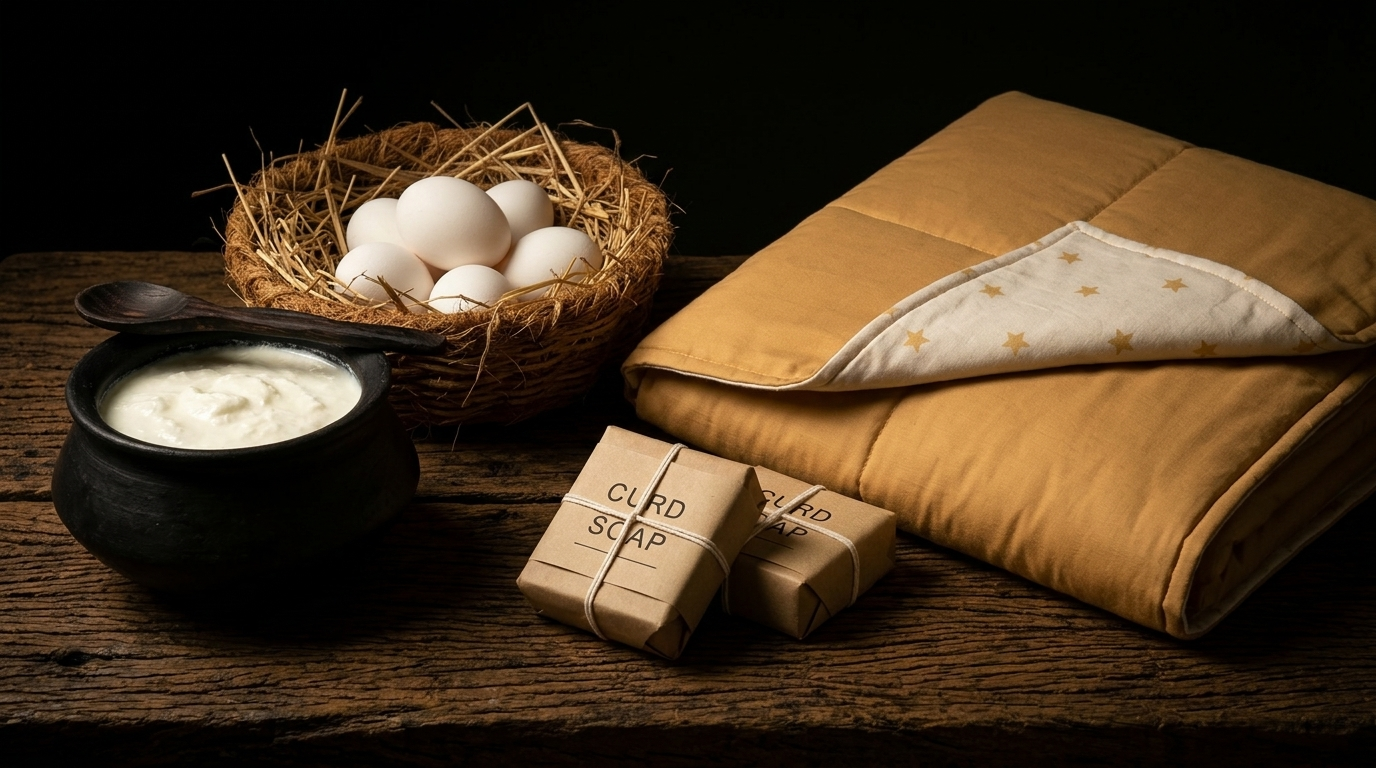
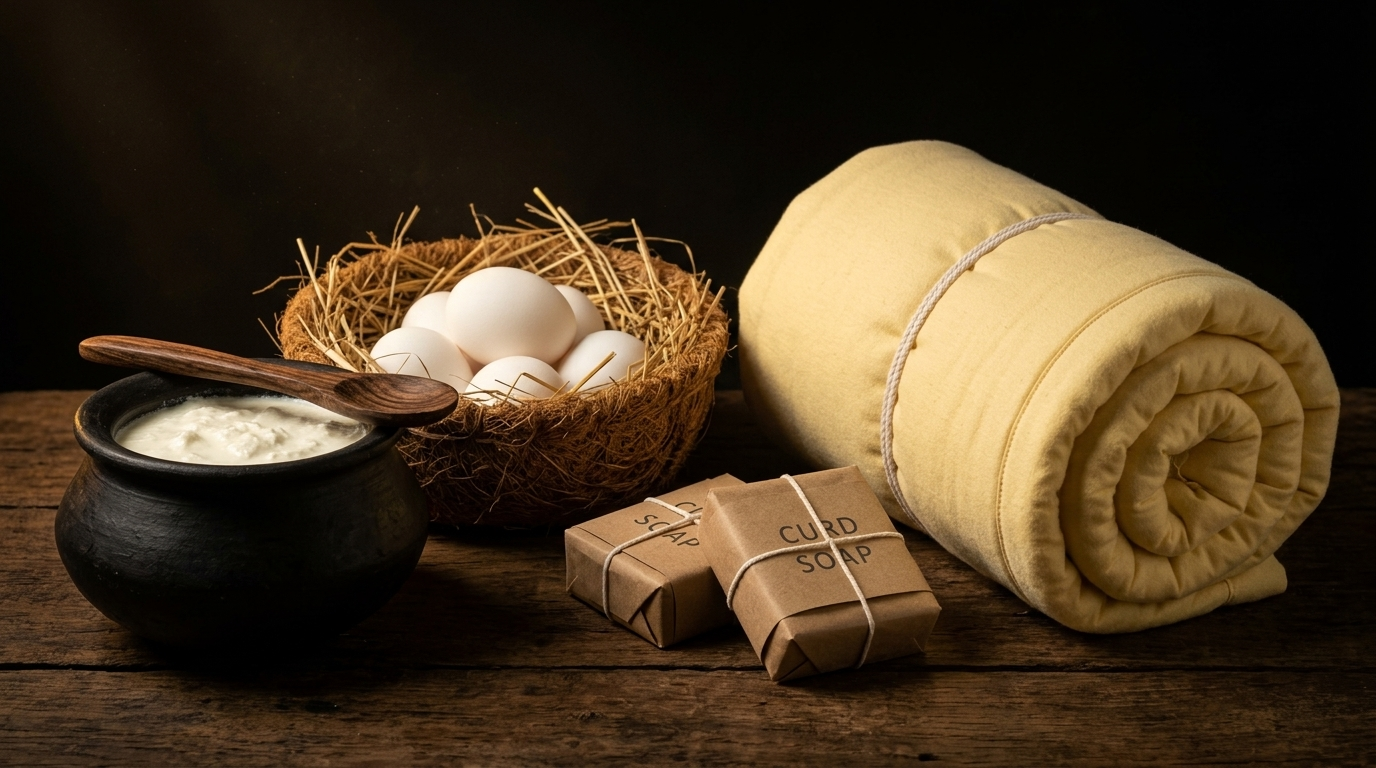
Update quilts to rolled 100% solid pastel quilt rolls while keeping printed throw blanket as-is

diff --git a/assets/js/data.js b/assets/js/data.js
@@ -51,7 +51,7 @@ const PRODUCTS = [
     badgeType: "featured",
     rating: 5.0,
     reviewsCount: 47,
-    image: "assets/images/hero-basket.jpg?v=2",
+    image: "assets/images/hero-basket.jpg?v=4",
     description: "Our signature artisanal gift hamper: fresh pasture-roaming duck eggs nestled in golden straw, two cold-process curd soaps wrapped in plain unbranded organic paper stating only the flavor, tied with textured off-white cotton thread with natural seed flecks, alongside sun-cured sacred tulsi and moringa leaves in organic white pouches, and an earthen pot of fresh setting curd.",
     ingredients: "6 Pasture Duck Eggs in Straw + 2 Farmstead Curd Soaps + Sun-Cured Sacred Tulsi & Moringa White Packets + Earthen Setting Curd Pot.",
     benefits: ["100% natural, biodegradable materials", "Soothes the senses with natural earthy textures", "Direct farm-to-table presentation with zero plastic"],
@@ -69,7 +69,7 @@ const PRODUCTS = [
     badgeType: "featured",
     rating: 5.0,
     reviewsCount: 22,
-    image: "assets/images/quilt-hamper.jpg?v=2",
+    image: "assets/images/quilt-hamper.jpg?v=4",
     description: "The complete artisanal home upgrade: an individual artisanal quilt roll (55\" × 90\") filled with natural Ilavam Panju (silk cotton harvested from Tamizhnad) and handcrafted from GOTS-certified and OEKO-TEX certified organically dyed cotton fabric (the fabric itself carries the GOTS & OEKO-TEX certifications), paired with two cold-process curd soaps wrapped in plain unbranded eco-friendly organic paper (zero plastic) and sun-cured herbal leaves in a rustic wooden gift crate.",
     ingredients: "Individual (55\" × 90\") Tamizhnad Ilavam Panju Quilt Roll (made from GOTS & OEKO-TEX certified fabric) + 2 Cold-Process Curd Soaps + Sun-Cured Herbal Leaves in White Pouches + Rustic Wooden Crate.",
     benefits: ["Natural Ilavam Panju (silk cotton harvested from Tamizhnad) filling encased in GOTS & OEKO-TEX certified cotton fabric", "100% eco-friendly labels & packaging — strictly NO PLASTIC", "Handcrafted durability built to last generations"],
@@ -219,7 +219,7 @@ const PRODUCTS = [
     badgeType: "featured",
     rating: 5.0,
     reviewsCount: 16,
-    image: "assets/images/quilt-roll.jpg?v=3",
+    image: "assets/images/quilt-roll.jpg?v=4",
     description: "Handcrafted solid pastel kids quilt filled with 100% natural Ilavam Panju (pure silk cotton harvested from Tamizhnad) and encased in ultra-soft, brushed organically dyed solid pastel cotton fabric (available in Pastel Butter Yellow, Pastel Peach, Pastel Mint Green, Pastel Lavender, Pastel Misty Blue-Grey, and Pastel Blush Pink — our quilts are 100% solid pastel with no prints). While the handcrafted quilt itself is not separately certified, the organic cotton fabric it is made from is GOTS and OEKO-TEX Standard 100 certified. Finished with eco-friendly plastic-free labels and a handcrafted tote carry bag.",
     ingredients: "Natural Ilavam Panju (Silk Cotton harvested from Tamizhnad) Filling + Handcrafted from 100% Solid Pastel GOTS & OEKO-TEX Certified Organic Cotton Fabric, organically dyed.",
     benefits: ["100% solid pastel brushed cotton with pure Tamizhnad Ilavam Panju (silk cotton) filling", "Crafted from GOTS & OEKO-TEX certified fabric (zero synthetics, zero plastic, eco-friendly labels)", "Available in 6 soothing pastel shades • Kids size (40\" × 50\")"],
@@ -237,7 +237,7 @@ const PRODUCTS = [
     badgeType: "featured",
     rating: 5.0,
     reviewsCount: 21,
-    image: "assets/images/quilt-roll.jpg?v=3",
+    image: "assets/images/quilt-roll.jpg?v=4",
     description: "Master solid pastel individual quilt (55\" × 90\") filled with 100% natural Ilavam Panju (silk cotton harvested from Tamizhnad) and encased in ultra-soft, brushed organically dyed solid pastel cotton fabric (available in Pastel Butter Yellow, Pastel Peach, Pastel Mint Green, Pastel Lavender, Pastel Misty Blue-Grey, and Pastel Blush Pink — our quilts are 100% solid pastel with no prints). While the handcrafted quilt itself is not separately certified, the organic cotton fabric it is made from is GOTS and OEKO-TEX Standard 100 certified. Finished with 100% eco-friendly plastic-free labels and a handcrafted tote carry bag.",
     ingredients: "Natural Ilavam Panju (Silk Cotton harvested from Tamizhnad) Filling + Handcrafted from 100% Solid Pastel GOTS & OEKO-TEX Certified Organic Cotton Fabric, organically dyed.",
     benefits: ["100% solid pastel brushed cotton with pure Tamizhnad Ilavam Panju filling for cloud-like comfort", "Crafted from GOTS & OEKO-TEX certified fabric with eco-friendly labels and zero plastic", "Available in 6 soothing pastel shades • Individual size (55\" × 90\")"],
@@ -328,7 +328,7 @@ const FARM_VISITS = [
     title: "Farmstead Experience",
     duration: "1–2 Hours Visit",
     pricePerPerson: 450,
-    image: "assets/images/hero-basket.jpg?v=2",
+    image: "assets/images/hero-basket.jpg?v=4",
     badge: "Farm Walk",
     days: "Open Every Day",
     timing: "07:00 – 17:00",
@@ -419,7 +419,7 @@ const ALL_BLOG_DISPATCHES = [
     publishAt: "2026-10-21T04:40:00+05:30",
     readTime: "3 min read",
     author: "Purreins Frequency",
-    image: "assets/images/blog9_swaddle_quilt.jpg?v=2",
+    image: "assets/images/blog9_swaddle_quilt.jpg?v=4",
     url: "journal-09-swaddle-is-addictive.html",
     excerpt: "Swaddling helps babies sleep, they say—but only till they mature into their bodies. Once they show the first signs of rolling over, keeping them swaddled stops them from exploring their limbs and syncing with nature.",
     content: `

diff --git a/index.html b/index.html
@@ -611,7 +611,7 @@
           <div class="relative w-full max-w-md lg:max-w-none">
             <!-- Vertical Picture (Thick in center, fading in vertical oval/egg shape) -->
             <div class="hero-vertical-blend aspect-[3/4] w-full overflow-hidden" style="-webkit-mask-image: radial-gradient(ellipse 48% 49% at 50% 50%, #000000 0%, #000000 45%, rgba(0, 0, 0, 0.92) 60%, rgba(0, 0, 0, 0.65) 75%, rgba(0, 0, 0, 0.30) 88%, rgba(0, 0, 0, 0.08) 96%, transparent 100%); mask-image: radial-gradient(ellipse 48% 49% at 50% 50%, #000000 0%, #000000 45%, rgba(0, 0, 0, 0.92) 60%, rgba(0, 0, 0, 0.65) 75%, rgba(0, 0, 0, 0.30) 88%, rgba(0, 0, 0, 0.08) 96%, transparent 100%); -webkit-mask-size: 100% 100%; mask-size: 100% 100%;">
-              <img src="assets/images/hero-vertical.jpg?v=oval_egg_mask_v23" alt="Artisanal coir straw basket with pasture duck eggs, handcrafted Honey &amp; Oat cold-process soaps tied with textured cotton thread, black mud pot of fresh curd with wooden spoon, rolled waffle cotton quilt, and herbal stems" class="w-full h-full object-cover object-center" style="-webkit-mask-image: radial-gradient(ellipse 48% 49% at 50% 50%, #000000 0%, #000000 45%, rgba(0, 0, 0, 0.92) 60%, rgba(0, 0, 0, 0.65) 75%, rgba(0, 0, 0, 0.30) 88%, rgba(0, 0, 0, 0.08) 96%, transparent 100%); mask-image: radial-gradient(ellipse 48% 49% at 50% 50%, #000000 0%, #000000 45%, rgba(0, 0, 0, 0.92) 60%, rgba(0, 0, 0, 0.65) 75%, rgba(0, 0, 0, 0.30) 88%, rgba(0, 0, 0, 0.08) 96%, transparent 100%); -webkit-mask-size: 100% 100%; mask-size: 100% 100%;">
+              <img src="assets/images/hero-vertical.jpg?v=oval_egg_mask_v24" alt="Artisanal coir straw basket with pasture duck eggs, handcrafted Honey &amp; Oat cold-process soaps tied with textured cotton thread, black mud pot of fresh curd with wooden spoon, rolled waffle cotton quilt, and herbal stems" class="w-full h-full object-cover object-center" style="-webkit-mask-image: radial-gradient(ellipse 48% 49% at 50% 50%, #000000 0%, #000000 45%, rgba(0, 0, 0, 0.92) 60%, rgba(0, 0, 0, 0.65) 75%, rgba(0, 0, 0, 0.30) 88%, rgba(0, 0, 0, 0.08) 96%, transparent 100%); mask-image: radial-gradient(ellipse 48% 49% at 50% 50%, #000000 0%, #000000 45%, rgba(0, 0, 0, 0.92) 60%, rgba(0, 0, 0, 0.65) 75%, rgba(0, 0, 0, 0.30) 88%, rgba(0, 0, 0, 0.08) 96%, transparent 100%); -webkit-mask-size: 100% 100%; mask-size: 100% 100%;">
             </div>
           </div>
         </div>
@@ -978,7 +978,7 @@
   </footer>
 
   <!-- Scripts -->
-  <script src="assets/js/data.js?v=20261021_v4"></script>
+  <script src="assets/js/data.js?v=20261021_v5"></script>
   <script src="assets/js/cart.js"></script>
   <script src="assets/js/main.js"></script>
   <script>

diff --git a/about.html b/about.html
@@ -483,7 +483,7 @@
         </div>
         <div class="lg:col-span-6 flex items-center justify-center">
           <div class="img-fade-blend aspect-[16/10] sm:aspect-[16/9] w-full overflow-hidden">
-            <img src="assets/images/hero-basket.jpg?v=2" alt="Artisanal harvest collection with pasture duck eggs, handmade curd soaps, leaves, and rolled quilt" class="w-full h-full object-cover">
+            <img src="assets/images/hero-basket.jpg?v=4" alt="Artisanal harvest collection with pasture duck eggs, handmade curd soaps, leaves, and rolled quilt" class="w-full h-full object-cover">
           </div>
         </div>
       </div>
@@ -847,7 +847,7 @@
   </footer>
 
   <!-- Scripts -->
-  <script src="assets/js/data.js?v=20261021_v4"></script>
+  <script src="assets/js/data.js?v=20261021_v5"></script>
   <script src="assets/js/cart.js"></script>
   <script src="assets/js/main.js"></script>
   <script>

diff --git a/journal-09-swaddle-is-addictive.html b/journal-09-swaddle-is-addictive.html
@@ -195,7 +195,7 @@
 <body class="antialiased selection:bg-brand-mossLight selection:text-black bg-black">
 
   <div class="cinematic-bg-canvas">
-    <img id="cinematic-bg-img" src="assets/images/blog9_swaddle_quilt.jpg?v=2" alt="Hand-stitched organic cotton heirloom quilt roll and breathable linen throw blanket">
+    <img id="cinematic-bg-img" src="assets/images/blog9_swaddle_quilt.jpg?v=4" alt="Hand-stitched organic cotton heirloom quilt roll and breathable linen throw blanket">
     <div class="fade-overlay-left"></div>
     <div class="fade-overlay-top"></div>
     <div class="fade-overlay-bottom"></div>

diff --git a/blog.html b/blog.html
@@ -510,7 +510,7 @@
   </footer>
 
   <!-- Scripts -->
-  <script src="assets/js/data.js?v=20261021_v4"></script>
+  <script src="assets/js/data.js?v=20261021_v5"></script>
   <script src="assets/js/cart.js"></script>
   <script src="assets/js/main.js"></script>
   <script>

diff --git a/shop.html b/shop.html
@@ -571,7 +571,7 @@
   </footer>
 
   <!-- Scripts -->
-  <script src="assets/js/data.js?v=20261021_v4"></script>
+  <script src="assets/js/data.js?v=20261021_v5"></script>
   <script src="assets/js/cart.js"></script>
   <script src="assets/js/main.js"></script>
   <script>
